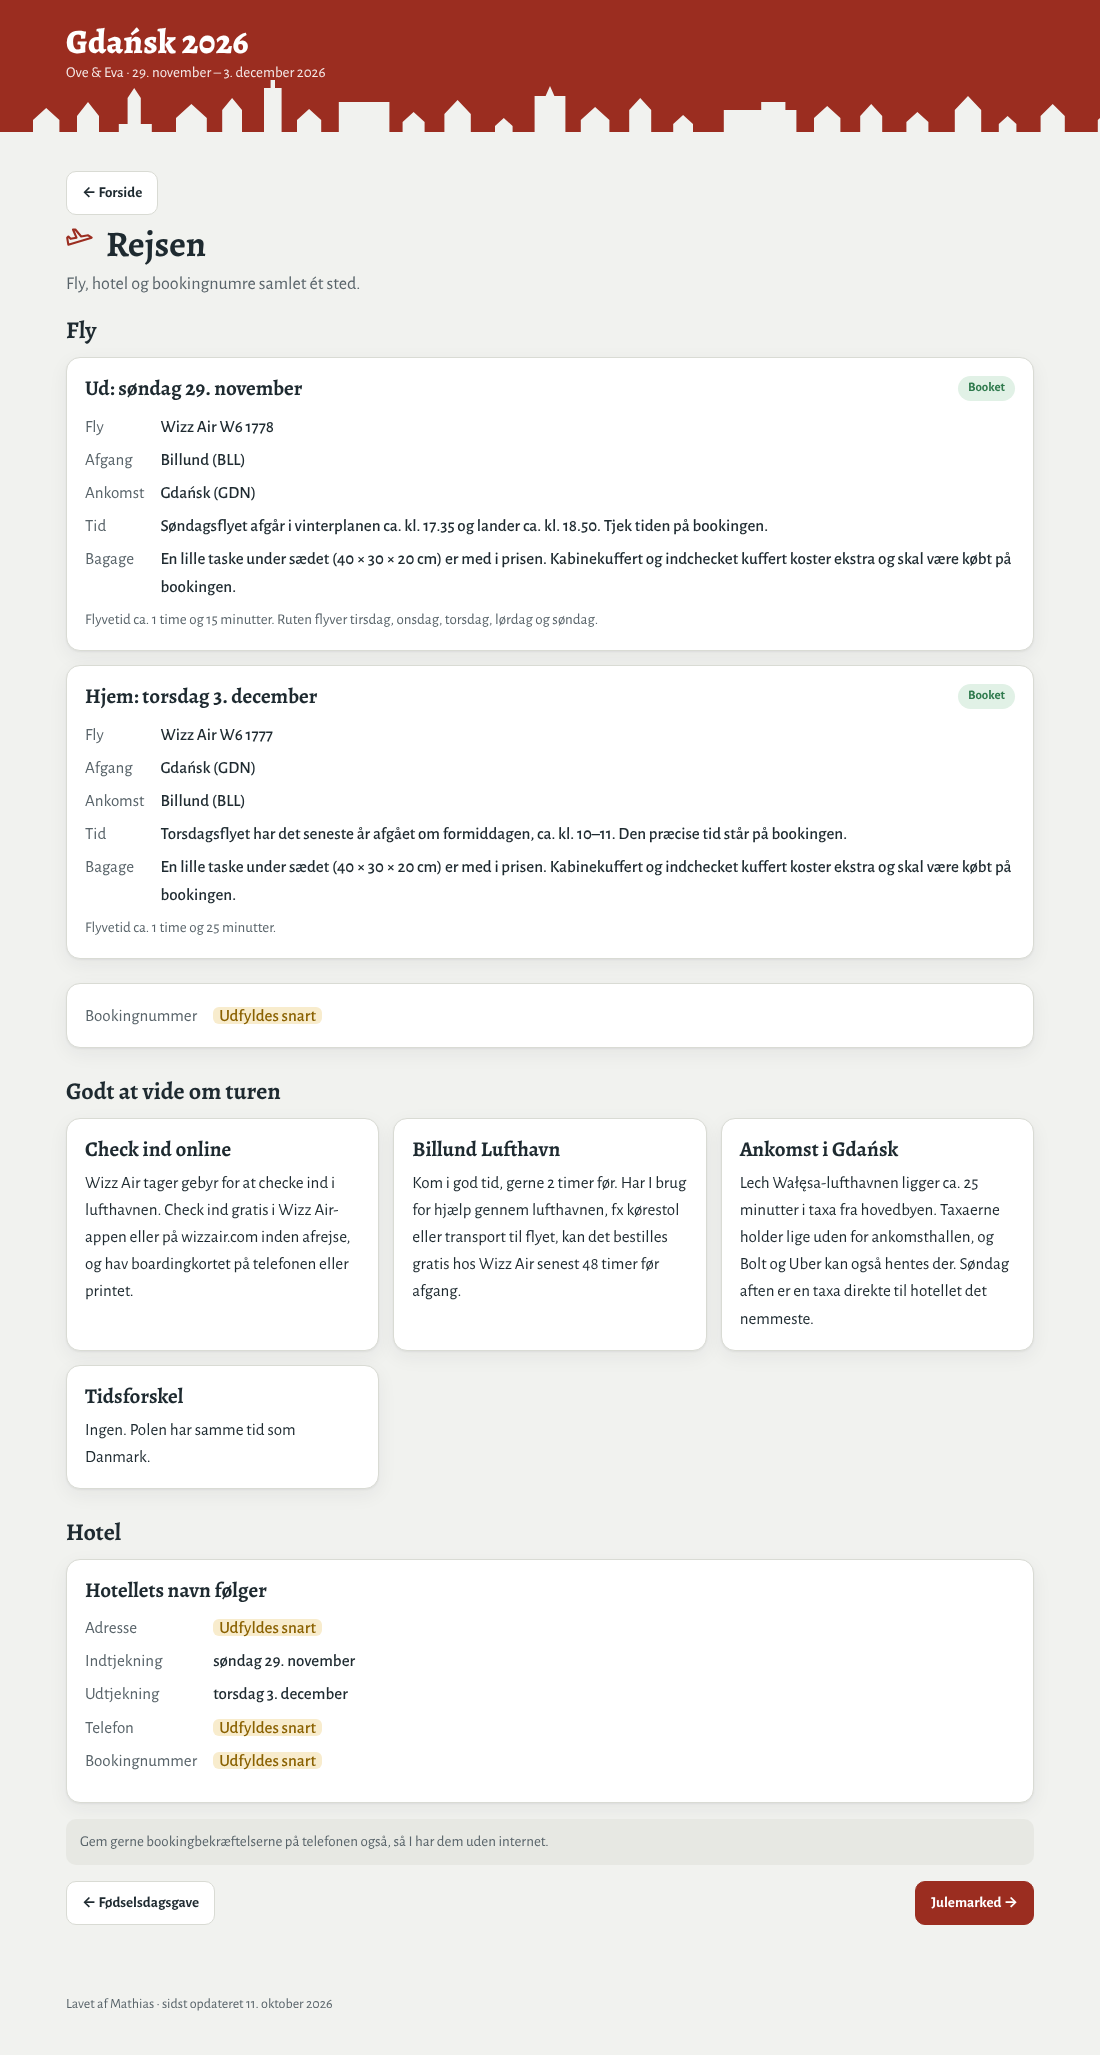
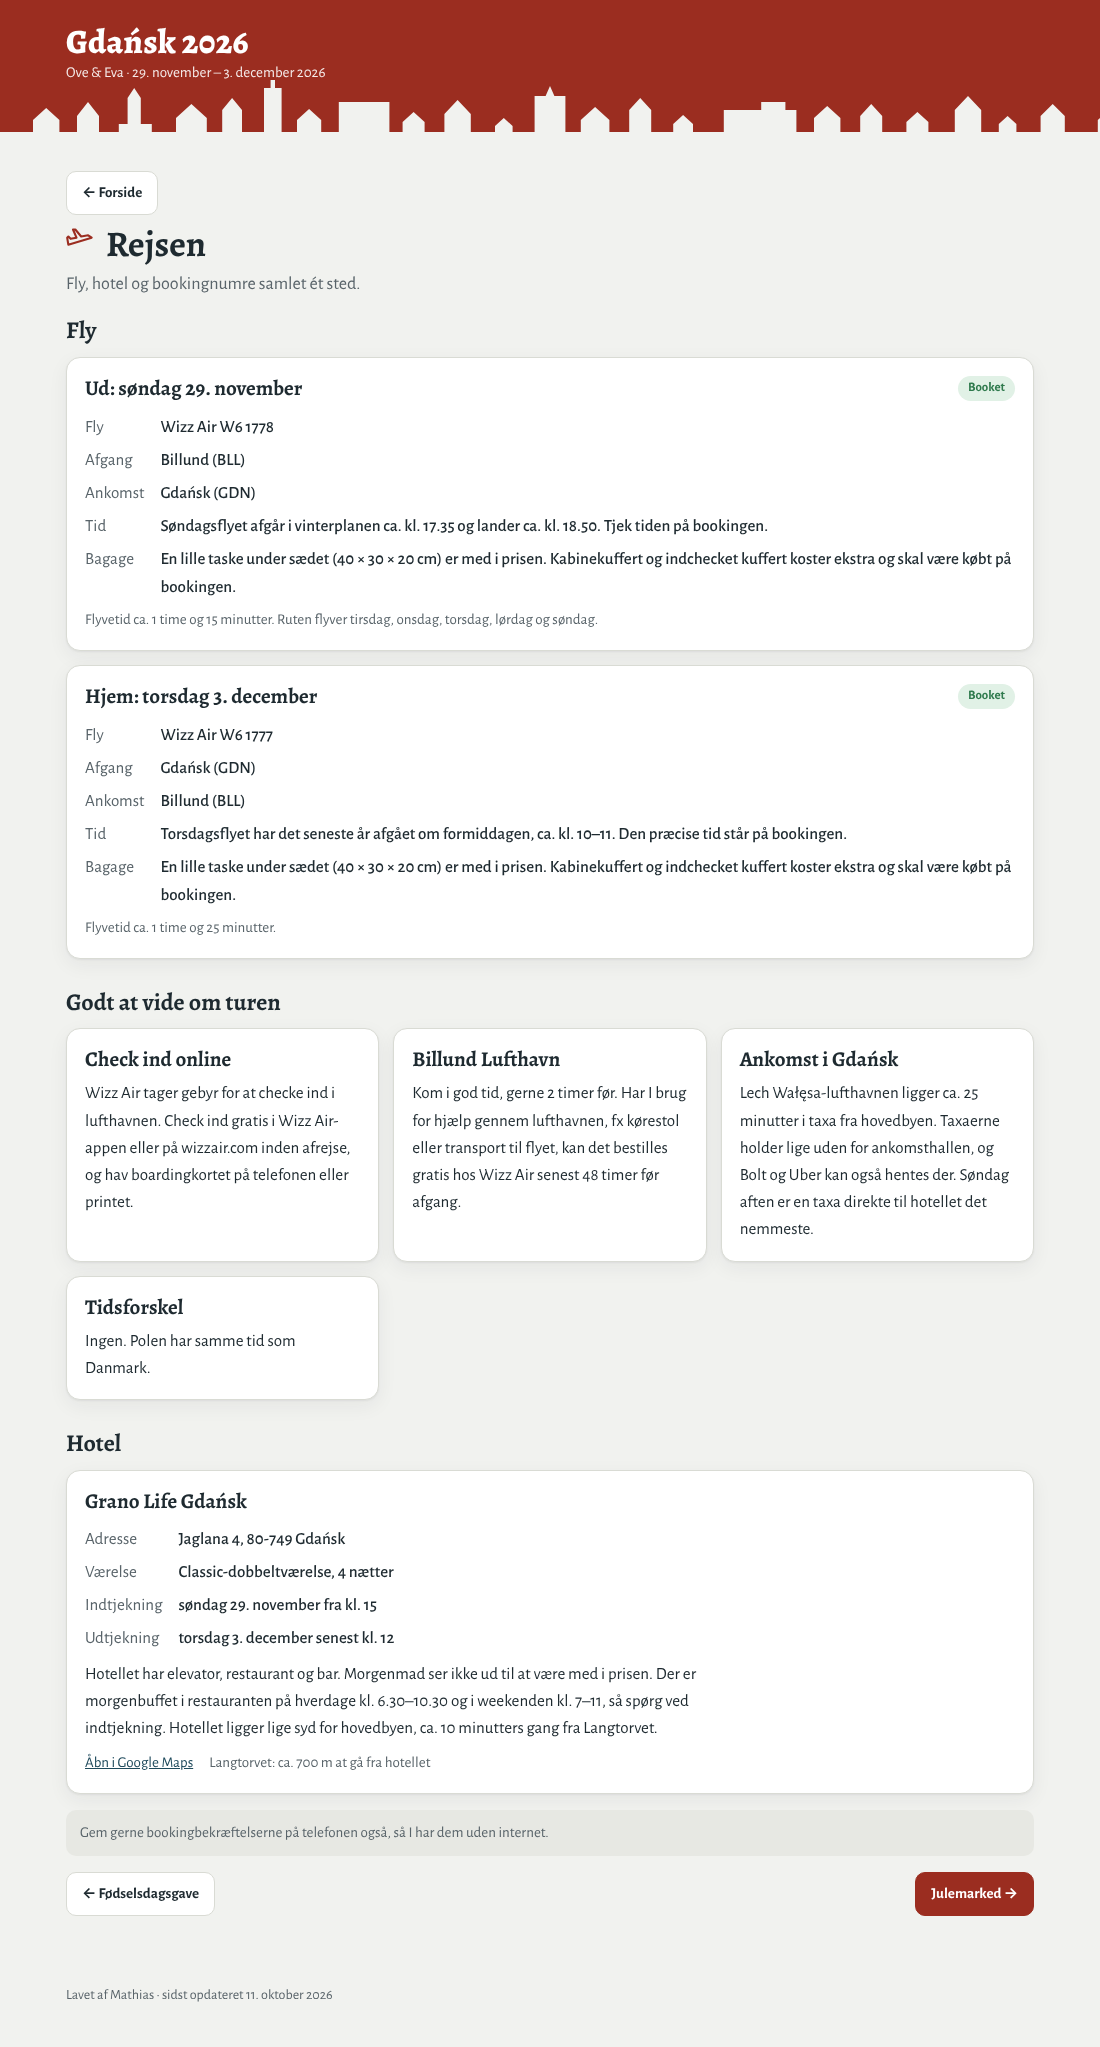
Tilføj hotellet Grano Life Gdańsk på siden og kortet
Claude-Session: https://claude.ai/code/session_018GcBt16BpeEHv8A2MGC5hk

diff --git a/index.html b/index.html
@@ -215,10 +215,11 @@ const TRAVEL_TIPS = [
 ];   // fx flyselskabets bookingnummer
 
 const HOTEL = {
-  name:"", address:"", phone:"", link:"",
-  checkin:"2026-11-29", checkout:"2026-12-03", ref:"",
-  lat:null, lon:null,       // fra Google Maps (højreklik på stedet). Så kommer hotellet på kortet, og afstande regnes fra hotellet.
-  note:""
+  name:"Grano Life Gdańsk", address:"Jaglana 4, 80-749 Gdańsk", phone:"", link:"",
+  checkin:"2026-11-29", checkinTime:"fra kl. 15", checkout:"2026-12-03", checkoutTime:"senest kl. 12", ref:"",
+  room:"Classic-dobbeltværelse, 4 nætter",
+  lat:54.34405, lon:18.65634,       // fra Google Maps (højreklik på stedet). Så kommer hotellet på kortet, og afstande regnes fra hotellet.
+  note:"Hotellet har elevator, restaurant og bar. Morgenmad ser ikke ud til at være med i prisen. Der er morgenbuffet i restauranten på hverdage kl. 6.30–10.30 og i weekenden kl. 7–11, så spørg ved indtjekning. Hotellet ligger lige syd for hovedbyen, ca. 10 minutters gang fra Langtorvet."
 };
 
 // Fødselsdagsgaven. Udfyld når restauranten er fundet.
@@ -477,11 +478,11 @@ const sightOf = id => SIGHTS.find(s=>s.id===id);
 const gmaps = (q,lat,lon) => `https://www.google.com/maps/search/?api=1&query=${q?encodeURIComponent(q):lat+","+lon}`;
 
 /* Kort over hovedbyen */
-const MAP_W = 500, MAP_H = 780, LAT0 = 54.3620, LON0 = 18.6432, K = 44000;
+const MAP_W = 500, MAP_H = 860, LAT0 = 54.3620, LON0 = 18.6432, K = 44000;
 const proj = (lat,lon) => [ (lon-LON0)*Math.cos(54.35*Math.PI/180)*K, (LAT0-lat)*K ];
 const line = pts => pts.map((p,i)=>{ const [x,y]=proj(p[0],p[1]); return (i?"L":"M")+x.toFixed(1)+","+y.toFixed(1); }).join(" ");
-const RIVER = [[54.3440,18.6606],[54.3466,18.6588],[54.3486,18.6578],[54.3510,18.6580],[54.3532,18.6596],[54.3552,18.6616],[54.3572,18.6640],[54.3600,18.6670]];
-const RIVER2 = [[54.3443,18.6630],[54.3470,18.6618],[54.3492,18.6610],[54.3512,18.6598]];   // Nye Motława øst for Pakhusøen
+const RIVER = [[54.3425,18.6618],[54.3440,18.6606],[54.3466,18.6588],[54.3486,18.6578],[54.3510,18.6580],[54.3532,18.6596],[54.3552,18.6616],[54.3572,18.6640],[54.3600,18.6670]];
+const RIVER2 = [[54.3430,18.6636],[54.3443,18.6630],[54.3470,18.6618],[54.3492,18.6610],[54.3512,18.6598]];   // Nye Motława øst for Pakhusøen
 // Gader, tegnet efter kort i hånden (ikke målfast). k: major = store veje, minor = gader, bridge = broer
 const ROADS = [
   {n:"Wały Jagiellońskie", k:"major", pts:[[54.3443,18.6470],[54.3470,18.6462],[54.3497,18.6452],[54.3525,18.6455],[54.3545,18.6462]]},
@@ -499,12 +500,13 @@ const ROADS = [
   {n:"Długie Pobrzeże", k:"minor", pts:[[54.3483,18.6567],[54.3500,18.6568],[54.3512,18.6569],[54.3523,18.6578]]},
   {n:"Toruńska", k:"minor", pts:[[54.3469,18.6505],[54.3452,18.6508]]},
   {n:"", k:"minor", pts:[[54.3524,18.6527],[54.3545,18.6528],[54.3560,18.6560],[54.3561,18.6595]]},
-  {n:"", k:"bridge", pts:[[54.3485,18.6562],[54.3484,18.6600]]}
+  {n:"", k:"bridge", pts:[[54.3485,18.6562],[54.3484,18.6600]]},
+  {n:"", k:"minor", pts:[[54.3463,18.6560],[54.3452,18.6562],[54.3441,18.6564]]}
 ];
 const BLOCKS = [
   [[54.3523,18.6460],[54.3523,18.6572],[54.3470,18.6570],[54.3470,18.6465]],   // Hovedbyen
   [[54.3600,18.6485],[54.3600,18.6560],[54.3560,18.6610],[54.3526,18.6582],[54.3526,18.6462],[54.3546,18.6466]],   // Gamle by
-  [[54.3468,18.6470],[54.3468,18.6560],[54.3448,18.6560],[54.3448,18.6475]]    // syd for Podwale
+  [[54.3468,18.6470],[54.3468,18.6560],[54.3436,18.6575],[54.3436,18.6478]]    // syd for Podwale
 ];
 const SQUARES = [ [[54.3515,18.6470],[54.3515,18.6488],[54.3497,18.6488],[54.3497,18.6472]] ];   // Targ Węglowy
 const poly = pts => line(pts)+"Z";
@@ -567,7 +569,7 @@ const SECTIONS = [
      const h = HOTEL;
      return `<h3 class="sub" style="margin-top:8px">Fly</h3>
        <div class="stack">${f}</div>
-       <div class="card"><dl class="kv" style="margin:0"><dt>Bookingnummer</dt><dd>${v(BOOKING_REF)}</dd></dl></div>
+       ${BOOKING_REF?`<div class="card"><dl class="kv" style="margin:0"><dt>Bookingnummer</dt><dd>${esc(BOOKING_REF)}</dd></dl></div>`:""}
        <h3 class="sub">Godt at vide om turen</h3>
        <div class="boxes" style="margin-bottom:8px">${TRAVEL_TIPS.map(([t,x])=>`<div class="card item"><h4>${esc(t)}</h4><p>${esc(x)}</p></div>`).join("")}</div>
        <h3 class="sub">Hotel</h3>
@@ -575,10 +577,11 @@ const SECTIONS = [
          <h4>${h.name?esc(h.name):"Hotellets navn følger"}</h4>
          <dl class="kv">
            <dt>Adresse</dt><dd>${v(h.address)}</dd>
-           <dt>Indtjekning</dt><dd>${h.checkin?esc(fmtDate(h.checkin)):TODO}</dd>
-           <dt>Udtjekning</dt><dd>${h.checkout?esc(fmtDate(h.checkout)):TODO}</dd>
-           <dt>Telefon</dt><dd>${v(h.phone)}</dd>
-           <dt>Bookingnummer</dt><dd>${v(h.ref)}</dd>
+           ${h.room?`<dt>Værelse</dt><dd>${esc(h.room)}</dd>`:""}
+           <dt>Indtjekning</dt><dd>${h.checkin?esc(fmtDate(h.checkin)+(h.checkinTime?" "+h.checkinTime:"")):TODO}</dd>
+           <dt>Udtjekning</dt><dd>${h.checkout?esc(fmtDate(h.checkout)+(h.checkoutTime?" "+h.checkoutTime:"")):TODO}</dd>
+           ${h.phone?`<dt>Telefon</dt><dd>${esc(h.phone)}</dd>`:""}
+           ${h.ref?`<dt>Bookingnummer</dt><dd>${esc(h.ref)}</dd>`:""}
          </dl>
          ${h.note?`<p>${esc(h.note)}</p>`:""}
          <div class="meta">${h.link?`<a href="${esc(h.link)}" target="_blank" rel="noopener">Hotellets hjemmeside</a>`:""}
